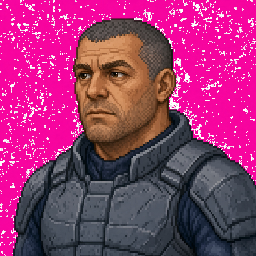
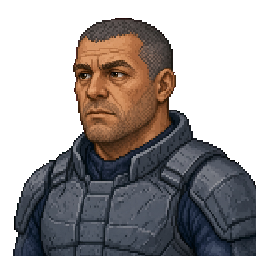
fix(warpcrew): key the magenta background out of 8 crew portraits
brink, greaves, kal, moth, nub, oso, tink and yara shipped with an opaque
hot-pink chroma-key square baked in, so they showed as a character on a
pink box. scripts/key-portrait-magenta.py flood-fills the key colour from
the border (plus enclosed pockets), makes it transparent, and un-mixes the
magenta fringe on the edge pixels; sizes are unchanged and nothing is
resampled. New test/portrait_backgrounds.test.mjs (in test:ship) fails if
any crew portrait has opaque magenta in its corners.

Claude-Session: https://claude.ai/code/session_01HsKm6hKy29s4GFB3wDRpnV

diff --git a/apps/warpcrew/scripts/key-portrait-magenta.py b/apps/warpcrew/scripts/key-portrait-magenta.py
@@ -1,0 +1,219 @@
+#!/usr/bin/env python3
+"""Key a baked-in hot-pink/magenta chroma-key background out of pixel-art PNGs.
+
+Some generated crew portraits came back with an opaque magenta square behind the
+character instead of a transparent background. This script turns that square into
+fully transparent pixels and cleans the magenta fringe on the character's edge,
+without resampling or blurring (image size and crispness are unchanged).
+
+Usage:
+    python3 apps/warpcrew/scripts/key-portrait-magenta.py FILE.png [FILE.png ...]
+    python3 apps/warpcrew/scripts/key-portrait-magenta.py --check FILE.png ...   # report only, write nothing
+
+Files are overwritten in place. Requires Python 3 and Pillow.
+
+How it works:
+ 1. The key colour is estimated per image (median of the opaque border pixels that
+    look magenta). The key is slightly noisy / has a gradient, so matching uses a
+    colour distance, not an exact value.
+ 2. Background = key-like pixels connected to the image border (flood fill), plus
+    enclosed key-like pockets of a minimum size (gaps between an arm and the body).
+    Pixels are only ever removed if they are key-like AND connected to the
+    background (or in a sizeable key-coloured pocket), so the character's own
+    colours are not touched.
+ 3. Fringe: for the 3 pixels next to the removed background, estimate how much
+    magenta each pixel carries ("spill" = min(R,B) - G). Mostly-magenta pixels become
+    transparent; lightly tinted ones are un-mixed from the local key colour so no
+    pink halo remains. Alpha is always 0 or 255 (crisp pixel art).
+"""
+import sys
+from collections import deque
+from statistics import median
+
+from PIL import Image
+
+KEY_DIST = 90        # max RGB distance from the key colour to count as background
+POCKET_DIST = 60     # stricter distance for enclosed pockets (not touching the border)
+POCKET_MIN = 1       # smallest enclosed pocket (pixels) that is removed
+FRINGE_RADIUS = 3    # how far from the background the fringe cleaning reaches
+DROP_T = 0.45        # fringe pixels at least this much magenta become transparent
+CLEAN_T = 0.04       # fringe pixels with less than this are left untouched
+
+
+def is_magentaish(p):
+    r, g, b, a = p
+    return a > 200 and r > 170 and g < 90 and 90 < b < 210 and r - g > 120
+
+
+def distance(p, key):
+    return ((p[0] - key[0]) ** 2 + (p[1] - key[1]) ** 2 + (p[2] - key[2]) ** 2) ** 0.5
+
+
+def spill(p):
+    return min(p[0], p[2]) - p[1]
+
+
+def border_pixels(px, w, h):
+    for x in range(w):
+        yield px[x, 0]
+        yield px[x, h - 1]
+    for y in range(h):
+        yield px[0, y]
+        yield px[w - 1, y]
+
+
+def estimate_key(px, w, h):
+    pts = [p for p in border_pixels(px, w, h) if is_magentaish(p)]
+    if len(pts) < (2 * (w + h)) * 0.05:
+        return None
+    return tuple(median(p[i] for p in pts) for i in range(3))
+
+
+def neighbors4(x, y, w, h):
+    if x > 0:
+        yield x - 1, y
+    if x < w - 1:
+        yield x + 1, y
+    if y > 0:
+        yield x, y - 1
+    if y < h - 1:
+        yield x, y + 1
+
+
+def flood(seeds, ok, w, h):
+    seen = set(seeds)
+    q = deque(seeds)
+    while q:
+        x, y = q.popleft()
+        for n in neighbors4(x, y, w, h):
+            if n not in seen and ok(n):
+                seen.add(n)
+                q.append(n)
+    return seen
+
+
+def key_image(im):
+    """Return (new_image, stats) or (None, None) if the image has no magenta background."""
+    im = im.convert('RGBA')
+    w, h = im.size
+    px = im.load()
+    key = estimate_key(px, w, h)
+    if key is None:
+        return None, None
+
+    def keylike(pt, d=KEY_DIST):
+        p = px[pt]
+        # mostly-transparent leftovers (a partial earlier key-out) count as background too
+        return p[3] < 128 or distance(p, key) <= d
+
+    # 1. background connected to the border
+    seeds = []
+    for x in range(w):
+        seeds += [(x, 0), (x, h - 1)]
+    for y in range(h):
+        seeds += [(0, y), (w - 1, y)]
+    seeds = [s for s in seeds if keylike(s)]
+    bg = flood(seeds, keylike, w, h)
+
+    # 2. enclosed key-coloured pockets (e.g. between an arm and the torso)
+    pockets = 0
+    visited = set(bg)
+    for y in range(h):
+        for x in range(w):
+            if (x, y) in visited or not keylike((x, y), POCKET_DIST):
+                continue
+            comp = flood([(x, y)], lambda n: n not in visited and keylike(n, POCKET_DIST), w, h)
+            visited |= comp
+            if len(comp) >= POCKET_MIN:
+                bg |= comp
+                pockets += 1
+
+    # local key estimate for each fringe pixel (mean of nearby background pixels)
+    def local_key(x, y):
+        acc = [0, 0, 0]
+        n = 0
+        for yy in range(max(0, y - 4), min(h, y + 5)):
+            for xx in range(max(0, x - 4), min(w, x + 5)):
+                if (xx, yy) in bg:
+                    p = px[xx, yy]
+                    acc[0] += p[0]
+                    acc[1] += p[1]
+                    acc[2] += p[2]
+                    n += 1
+        if n == 0:
+            return key
+        return tuple(c / n for c in acc)
+
+    # 3. fringe = non-background pixels within FRINGE_RADIUS (chebyshev) of the background
+    fringe = set()
+    for (bx, by) in bg:
+        for yy in range(max(0, by - FRINGE_RADIUS), min(h, by + FRINGE_RADIUS + 1)):
+            for xx in range(max(0, bx - FRINGE_RADIUS), min(w, bx + FRINGE_RADIUS + 1)):
+                if (xx, yy) not in bg:
+                    fringe.add((xx, yy))
+
+    out = im.copy()
+    op = out.load()
+    for (x, y) in bg:
+        op[x, y] = (0, 0, 0, 0)
+
+    dropped = cleaned = 0
+    drop_more = []
+    for (x, y) in fringe:
+        p = px[x, y]
+        if p[3] == 0:
+            continue
+        k = local_key(x, y)
+        ref = max(1.0, spill(k))
+        t = max(0.0, min(1.0, spill(p) / ref))
+        # pixels that are not tinted towards the key (skin, orange, navy...) are left alone
+        if t >= DROP_T and distance(p, k) <= KEY_DIST * 1.3:
+            drop_more.append((x, y))
+        elif t >= CLEAN_T:
+            # un-mix: p = t*key + (1-t)*fg  ->  fg
+            fg = [(p[i] - t * k[i]) / (1 - t) for i in range(3)]
+            # remove any remaining magenta cast: R and B may not exceed G by more than the
+            # character's own colour would; clamp them back towards G
+            s = max(0, min(fg[0], fg[2]) - fg[1])
+            fg[0] -= s
+            fg[2] -= s
+            op[x, y] = tuple(max(0, min(255, int(round(c)))) for c in fg) + (255,)
+            cleaned += 1
+    for pt in drop_more:
+        op[pt] = (0, 0, 0, 0)
+        dropped += 1
+
+    # 4. drop fully-transparent pixels' colour (keeps PNGs tidy and avoids halo on resampling)
+    for y in range(h):
+        for x in range(w):
+            if op[x, y][3] == 0:
+                op[x, y] = (0, 0, 0, 0)
+
+    return out, {'key': tuple(int(c) for c in key), 'background': len(bg), 'pockets': pockets,
+                 'fringe_dropped': dropped, 'fringe_cleaned': cleaned}
+
+
+def main(argv):
+    check = '--check' in argv
+    files = [a for a in argv if not a.startswith('--')]
+    if not files:
+        print(__doc__)
+        return 2
+    for f in files:
+        im = Image.open(f)
+        size = im.size
+        out, stats = key_image(im)
+        if out is None:
+            print(f'{f}: no magenta background found, left untouched')
+            continue
+        assert out.size == size
+        if check:
+            print(f'{f}: magenta background found {stats}')
+        else:
+            out.save(f, optimize=True)
+            print(f'{f}: keyed {stats}')
+    return 0
+
+
+if __name__ == '__main__':
+    sys.exit(main(sys.argv[1:]))
